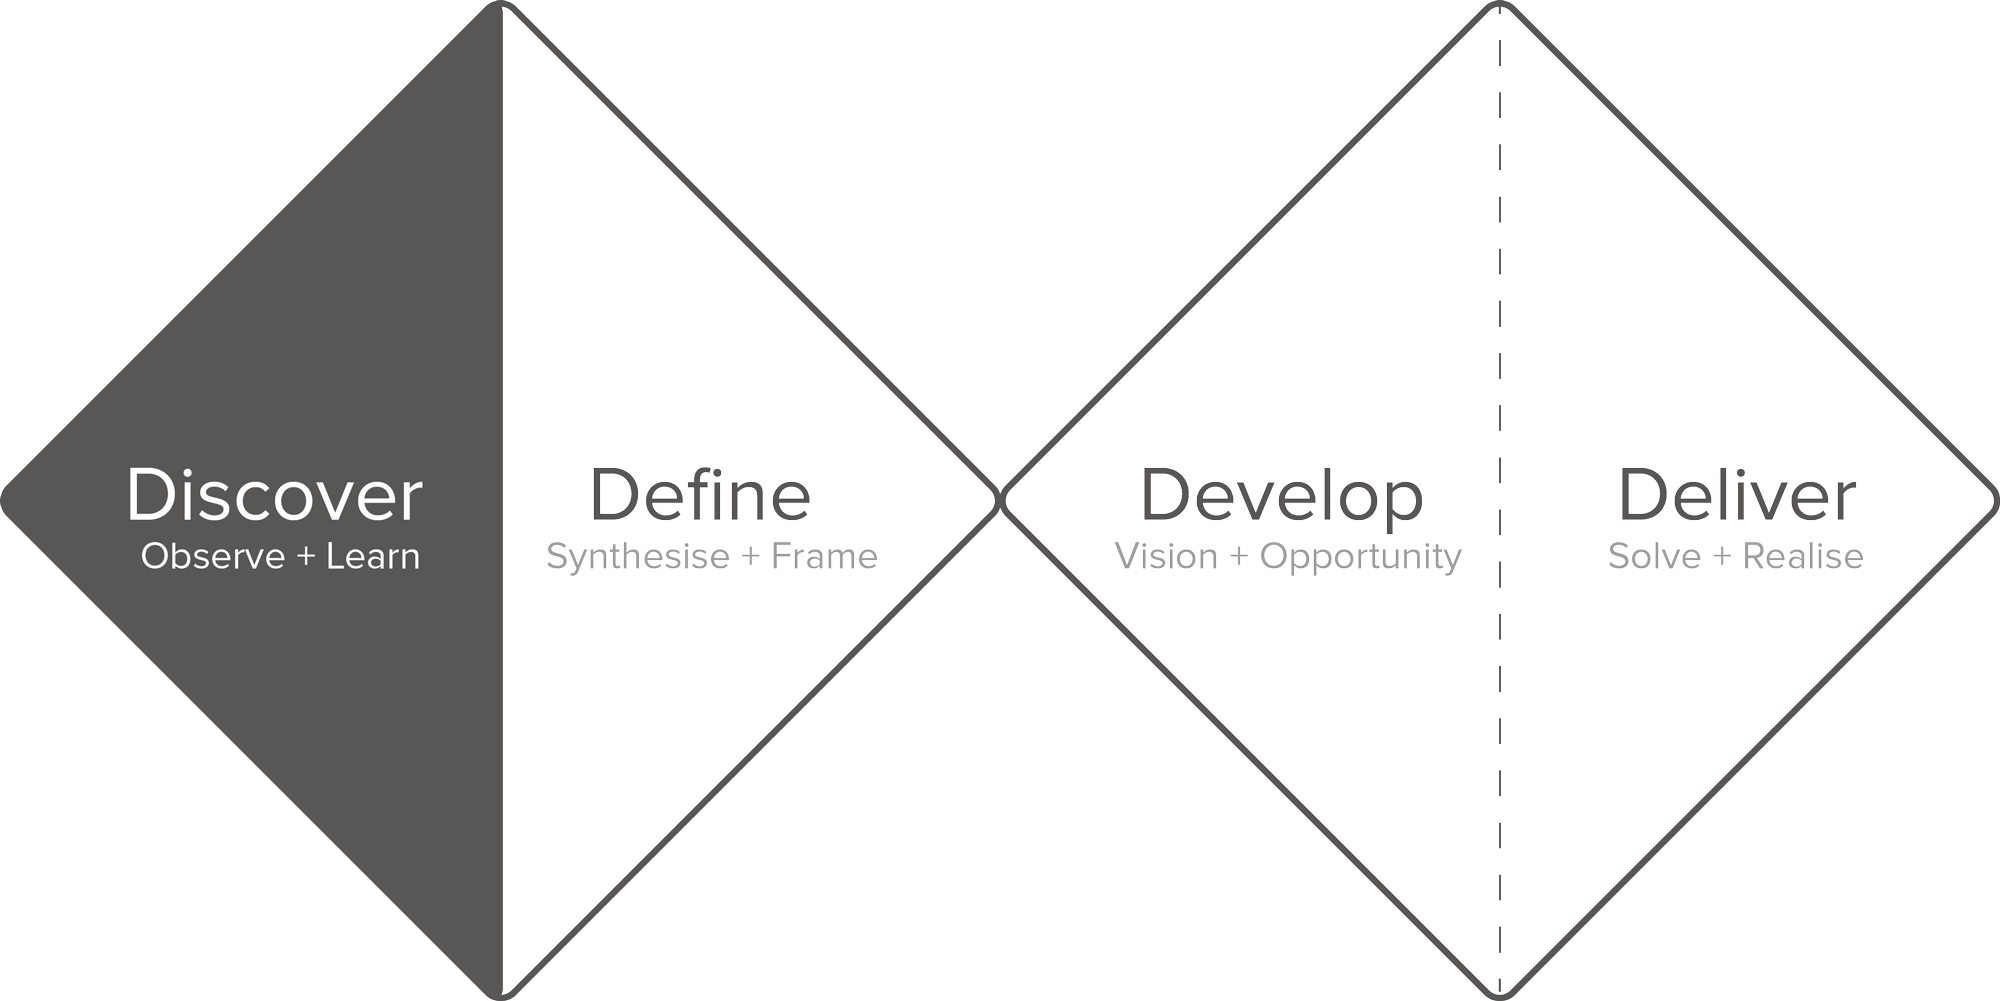
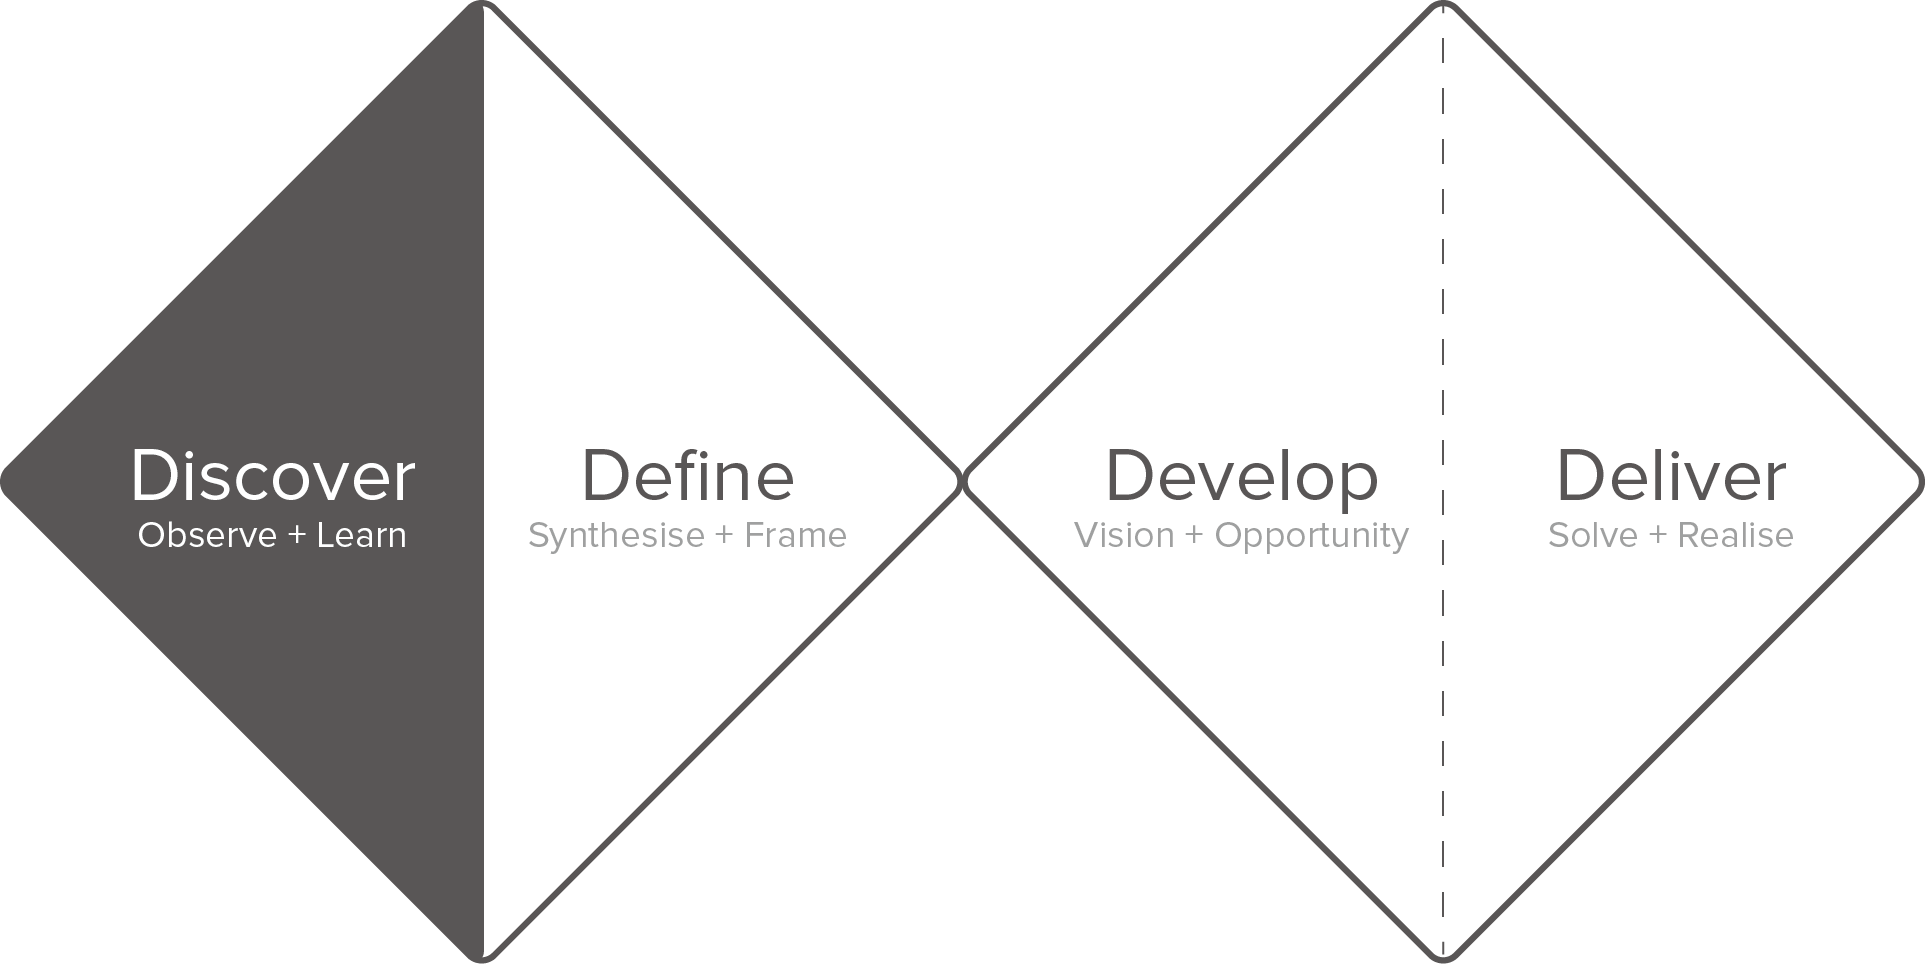
update text and diamond pic
update text and diamond pic

diff --git a/index.html b/index.html
@@ -54,9 +54,9 @@
 	</div> -->
 	
 	<div class="your-class">
- 	 <div>your content</div>
- 	 <div>your content</div>
-  	<div>your content</div>
+ 	 <div></div>
+ 	 <div></div>
+  	<div></div>
 	</div>
 	
 
@@ -150,7 +150,7 @@
 									<!--Inner title-->
 									<div class="innerTitle">
 										<h1> my works</h1>
-										<p>I am graphic & service designer and product design background</p>
+										<p>Graphic & Service Designer and Product Design background</p>
 									</div>
 									<!--End inner title-->
 
@@ -243,7 +243,7 @@
 														<br><br><br><br><br><br>
 														<div class="designprocess_text">THE DESIGN PROCESS</div>
 														<div class="diamond"><img src="images/portfolioImages/double_diamond_discover.png"/></div>
-														
+														<br><br>
 														<div class="lightbox_subtitle">Research & Interview</div>
 														<div class="pic"><img src="images/portfolioImages/work2/interview_photo.jpg"/></div>
 														<div class="lightbox_text">
@@ -262,7 +262,7 @@
 														<h1>Furthermore, we have done the User Experience Journey Map </h1>
 														<br><br><br></div>
 														<div class="diamond"><img src="images/portfolioImages/double_diamond_define.png"/></div>
-														
+														<br>
 														<div class="lightbox_subtitle">Intergrate in 7 Problems</div>
 														<div class="pic"><img src="images/portfolioImages/work2/problems.png"/></div>
 														<br><br>
@@ -291,7 +291,7 @@
 												
 														 <br><br>
 														 <div class="diamond"><img src="images/portfolioImages/double_diamond_develop.png"/></div>
-												
+														<br><br>
 														<div class="lightbox_subtitle">Brainstorming and Sketch</div>
 														<div class="pic4"><img src="./images/portfolioImages/work2/morphological_chart.jpg"/></div>
 														<div class="lightbox_text">
@@ -320,7 +320,7 @@
 
 														<br><br><br><br><br>
 														 <div class="diamond"><img src="images/portfolioImages/double_diamond_deliever.png"/></div>
-												
+														<br><br>
 														<div class="lightbox_subtitle">Take It Easy</div>
 														<div class="pic3"><img src="images/portfolioImages/work2/takeiteasy_luggage.png"/></div>
 														<div class="lightbox_text_left">
@@ -470,7 +470,7 @@
 														<br><br><br>
 														<div class="designprocess_text">THE DESIGN PROCESS</div>
 														<div class="diamond"><img src="images/portfolioImages/double_diamond_discover.png"/></div>
-														
+														<br>
 														<div class="lightbox_subtitle">Research & Interview</div>
 														
 														<div class="lightbox_text">
@@ -486,7 +486,7 @@
 														<br><br>
 														</div>
 														<div class="diamond"><img src="images/portfolioImages/double_diamond_define.png"/></div>
-														
+														<br>
 														<div class="lightbox_subtitle">Summerise Key Insights</div>
 														<div class="lightbox_text"><br>
 														<h1>According to the issues, I classify issues under 8 topics and find out the key insights from
@@ -508,6 +508,7 @@
 														helper is a beginner. if you can preview it, the photo would be what you want.</h4><br>
 														</div><br><br><br>
 														<div class="diamond"><img src="images/portfolioImages/double_diamond_deliever.png"/></div>
+														<br><br>
 														<div class="lightbox_subtitle">Diversified Cam</div><br><br>
 
 														<div class="cam1"><img src="images/portfolioImages/work3/cam.jpg"/></div>
@@ -662,7 +663,7 @@
 														<br><br><br><br><br><br>
 														<div class="designprocess_text">THE DESIGN PROCESS
 														<div class="diamond"><img src="images/portfolioImages/double_diamond_discover.png"/></div>
-														
+														<br><br>
 														<div class="lightbox_subtitle">Research & Interview</div>
 														<div class="pic5"><img src="images/portfolioImages/work5/interview.png"/></div>
 														<div class="lightbox_text">
@@ -682,7 +683,7 @@
 														</div>
 														<br><br><br>
 														<div class="diamond"><img src="images/portfolioImages/double_diamond_define.png"/></div>
-														
+														<br>
 														<div class="lightbox_subtitle">Summerise Key Insights</div>
 														<div class="pic3"><img src="images/portfolioImages/work5/prezi.png"/></div>
 														<div class="lightbox_text">
@@ -698,7 +699,7 @@
 														the community in Tower Hamlet utilising it's resource?</b> </h2>
 														<br><br></div>
 														<div class="diamond"><img src="images/portfolioImages/double_diamond_develop.png"/></div>
-												
+														<br><br>
 														<div class="lightbox_subtitle">Ideation</div>
 														<div class="lightbox_text">
 														<h2>Generate different ideas via variety of design method and discussion</h2>
@@ -708,7 +709,7 @@
 														<div class="pic11"><img src="images/portfolioImages/work5/develope2.jpg"/></div>
 														<br><br>
 														<div class="diamond"><img src="images/portfolioImages/double_diamond_deliever.png"/></div>
-
+														<br><br>
 														<div class="lightbox_subtitle">Health Cadet</div>
 														<div class="pic6"><img src="images/portfolioImages/work5/logo.png"/></div>
 														<br><br><br>
@@ -842,7 +843,8 @@
 														<br><div class="lightbox_title">CONCEPT <div></div>
 														<br>
 														<div class="lightbox_text">
-														<h1>Regard cruise as the title, the direction of this design mainly combine the name 
+														<h1>This is a CIS Design (Corporate Identity System) comprising logo, leaflet, CD etc. 
+														Regarding cruise as the name, the direction of this design mainly combine the name 
 														(APOSTLE) and the implication of cruise.</h1></div>
 
 														<div class="pic"><img src="images/portfolioImages/work7/cruise_logo.jpg" ></div>
@@ -1212,8 +1214,8 @@
 								He also believe that Service Design is the way to make social impact and will be
 								a key role in a business and startups in the near future. <br>
 								<br>
-								Rocky like music, sport, origami, chess etc. He is a pianist as well.
-								(Royal College of Music Grade 8 Certification,ABRSM)</p>
+								Rocky like music, sport, origami, chess, travelling etc. He is a pianist as well.
+								(Royal College of Music Grade 8 Certification,ABRSM). He is a Portuguese passport holder.</p>
 							
 							<!-- <div class="experience_title"><h1> EXPERIENCE<h1></div> -->
 							<div class="followBtn">

diff --git a/css/main.css b/css/main.css
@@ -648,7 +648,7 @@ nav#mainNav  .active{
 }
 
 #about .secTitle{
-	background:#9ad8ce;
+	background:#818181;
 }
 
 
@@ -1228,7 +1228,7 @@ nav#mainNav  .active{
 
 
 #portfolio .secTitle{
-	background:#818181;
+	background:#9ad8ce;
 }
 
 .filterNav {
@@ -1440,7 +1440,7 @@ float:left;
 	font-size: 35px;
 	margin-top: 40px;
 	margin-bottom:30px;
-	line-height: 20px;
+	line-height: 40px;
 
 } 
 
@@ -1607,7 +1607,7 @@ float:left;
 .lightbox_subtitle{
 	text-align: center;
 	font-size: 25px;
-	line-height:20px;
+	line-height:30px;
 	margin-bottom:30px;
 }
 
@@ -2757,11 +2757,11 @@ h1
     #works .portfolio{margin-right: 0;}
 	#works .item {width:230px;margin-right:0;}
 	.folioImg img{width:230px;height:230px;}
-	.takeiteasy_brief img{width:100px;}
+	.takeiteasy_brief img{width:300px;}
 	.diamond img{width:300px;}
 	.pic3 img{width:500px;} 
 	.pic img{width:300px;}
-	.pic4 img{width:200px;}
+	.pic4 img{width:300px;}
 	
 	
 
